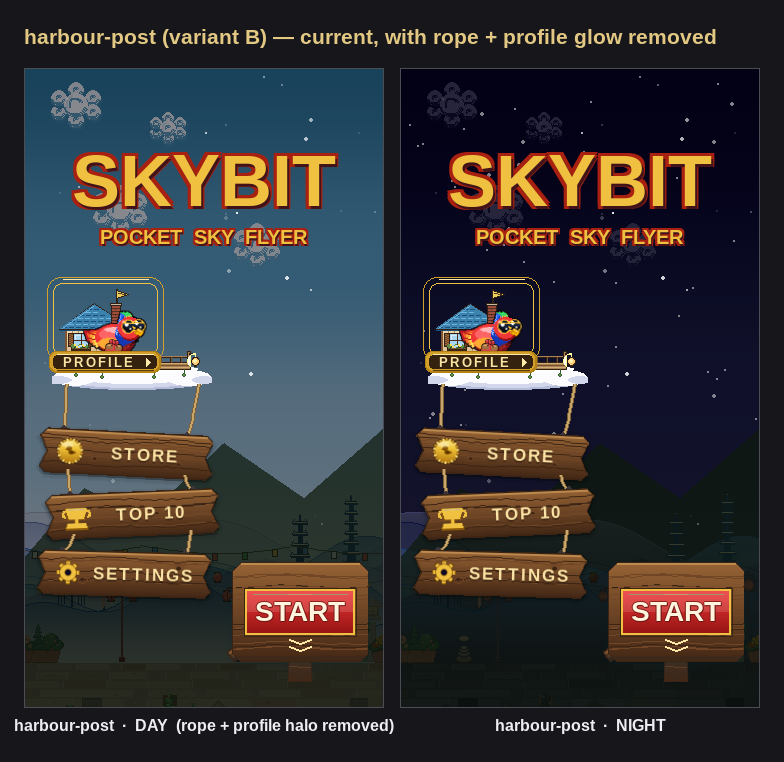
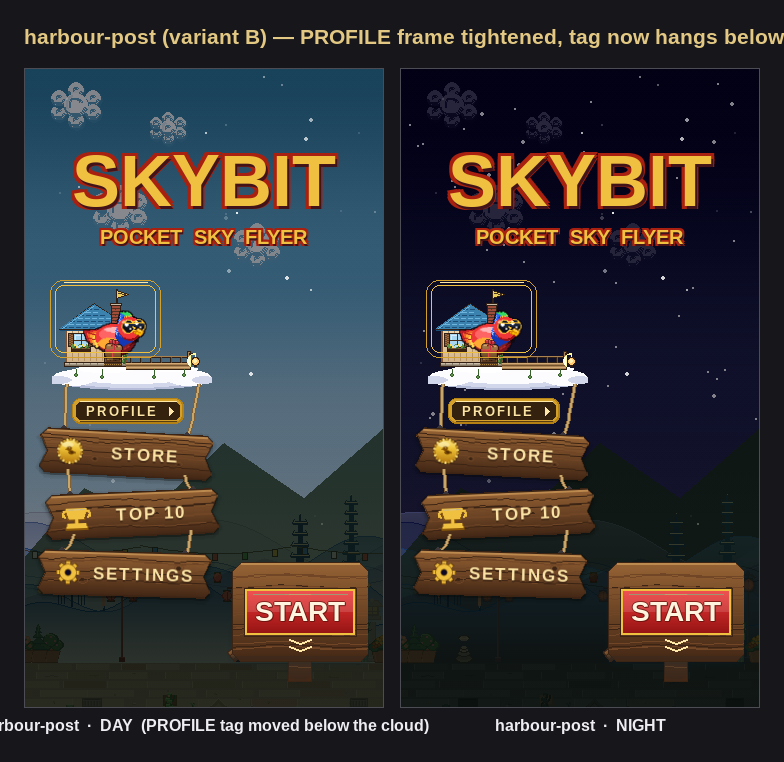
harbour-post: tighten the profile frame, hang PROFILE below the cloud
The frame no longer has to reserve room for a nameplate straddling its own
bottom rule, so it closes right at the cottage's foundation (padding 24->18)
instead of stretching down to the cloud's edge.

The PROFILE tag is now a free-standing element at cloud.bottom + 8, centred
between the two rope columns that leave the cloud's outer lobes and run down
to the first plank -- verified against the actual anchor geometry (draw_
signchain's CLOUD_HOOK_X clamped to (42,174) at CLOUD_ANCHOR_Y=316): the tag
sits at x48-160, the ropes stay at x39-43 and x165-174 over its full height,
6+ px clear on both sides. 8px of clear air separates the tag's bottom from
the STORE plank's top edge.

diff --git a/tools/menu-design/launch_perch_start.py b/tools/menu-design/launch_perch_start.py
@@ -605,49 +605,54 @@ def house_cottage_rect():
 def draw_profile_frame(surf):
     """The jewel-frame-on-Pip treatment, keyed to the cloud.
 
-    It bounds the cottage plus Pip's true sprite box and closes on the cloud's
-    measured base, so the frame reads as enclosing the whole floating island —
-    cottage, bird and cloud — which is also the object the sign chain hangs
-    from. The nameplate rides the cloud rather than a timber face."""
+    The frame now hugs the cottage plus Pip's true sprite box only — it no
+    longer has to reserve room for a nameplate straddling its own bottom
+    rule, so it can close right at the cottage's foundation. The PROFILE tag
+    is a separate element hanging clear below the cloud, where the sign
+    chain's ropes have already left the cloud's outer lobes and are running
+    down and inward to the first plank, so a centred tag between them never
+    crosses a line."""
     # Fit to the sprite's OPAQUE cottage, not its 160x120 canvas — the canvas
     # is mostly empty air above the roof, which used to leave the frame
     # floating 30 px clear of anything it was supposed to be framing.
     cot = house_cottage_rect()
     bird_r = pygame.Rect(PIP_CX - 31, int(PIP_CY) - 27, 64, 51)
-    fr = cot.union(bird_r).inflate(24, 24)
+    fr = cot.union(bird_r).inflate(18, 18)
     # The deck run must be free to continue past the frame into the START
     # slab; the frame stops short of it rather than boxing the join in.
-    cloud = cloud_rect()
-    # Close at the cottage's stone foundation, not the cloud's base. A 22px
-    # nameplate on a 26px cloud buries it; ending here leaves the cloud
-    # floating free below the frame, which is what the chain hangs from.
     fr.width = min(fr.width, 168 - fr.left)
-    fr.height = (cloud.top - 2) - fr.top
+    cloud = cloud_rect()
+    # Close at the cottage's stone foundation — the frame's own job stops
+    # there now that the tag has moved off it.
+    fr.height = min(fr.height, (cloud.top - 6) - fr.top)
 
-    pygame.draw.rect(surf, GOLD_MID, fr, width=1, border_radius=14)
-    pygame.draw.rect(surf, GOLD_BRIGHT, fr.inflate(-12, -12), width=1, border_radius=9)
-    pygame.draw.line(surf, (*GOLD_PALE, 200), (fr.left + 16, fr.top + 2),
-                     (fr.right - 16, fr.top + 2), 1)
+    pygame.draw.rect(surf, GOLD_MID, fr, width=1, border_radius=13)
+    pygame.draw.rect(surf, GOLD_BRIGHT, fr.inflate(-10, -10), width=1, border_radius=8)
+    pygame.draw.line(surf, (*GOLD_PALE, 200), (fr.left + 14, fr.top + 2),
+                     (fr.right - 14, fr.top + 2), 1)
 
-    plate = pygame.Rect(0, 0, 112, 22)
-    # Straddle the frame's lower rule, so it reads as bolted to the base of
-    # the house rather than laid across the cloud.
-    plate.center = (fr.centerx, fr.bottom)
-    pygame.draw.rect(surf, GOLD_DEEP, plate, border_radius=7)
-    pygame.draw.rect(surf, GOLD_MID, plate.inflate(-3, -3), border_radius=6)
+    # The tag: between the two rope columns that leave the cloud's outer
+    # lobes at CLOUD_HOOK_X and run down to the first plank. The right rope
+    # angles inward faster than the left one stays put, so centring on the
+    # cloud alone leaves under a pixel of clearance on that side — shifted
+    # 4px left for even clearance on both.
+    plate = pygame.Rect(0, 0, 112, 26)
+    plate.midtop = (cloud.centerx - 4, cloud.bottom + 8)
+    pygame.draw.rect(surf, GOLD_DEEP, plate, border_radius=8)
+    pygame.draw.rect(surf, GOLD_MID, plate.inflate(-3, -3), border_radius=7)
     pygame.draw.line(surf, GOLD_PALE, (plate.left + 8, plate.top + 3),
                      (plate.right - 8, plate.top + 3), 1)
     pygame.draw.line(surf, (86, 60, 16), (plate.left + 8, plate.bottom - 3),
                      (plate.right - 8, plate.bottom - 3), 1)
     inset = plate.inflate(-8, -8)
-    pygame.draw.rect(surf, (52, 34, 14), inset, border_radius=4)
+    pygame.draw.rect(surf, (52, 34, 14), inset, border_radius=5)
     lx = inset.centerx - 7
     _hud._tracked_label(surf, "PROFILE", (lx, inset.centery + 1), 13,
                         color=(34, 20, 8), track=2, alpha=150)
     _hud._tracked_label(surf, "PROFILE", (lx, inset.centery), 13,
                         color=GOLD_PALE, track=2, alpha=250)
     _hud._profile_tri(surf, inset.right - 9, inset.centery, 4, GOLD_PALE)
-    return fr
+    return fr.union(plate)
 
 
 def _verify_pip(before, after):
